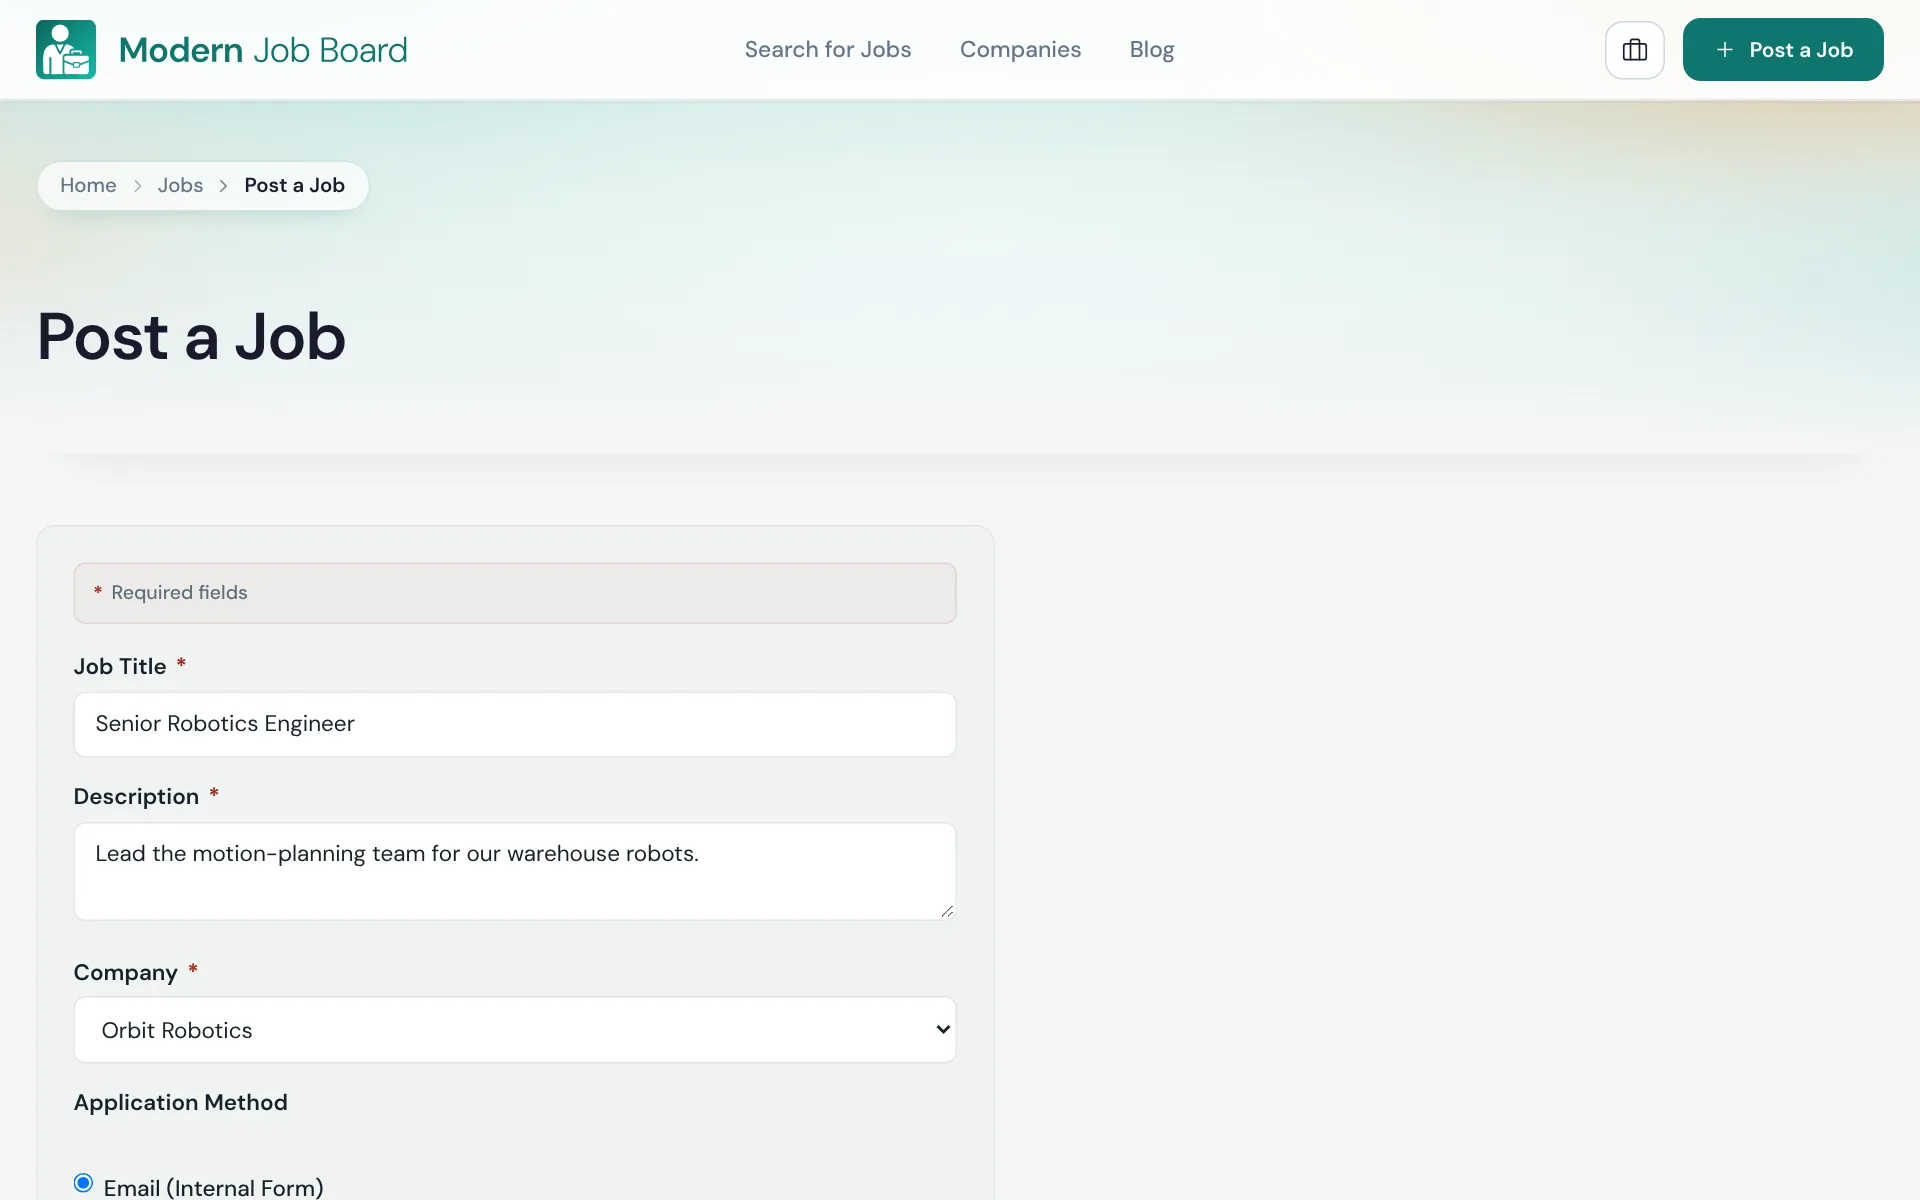
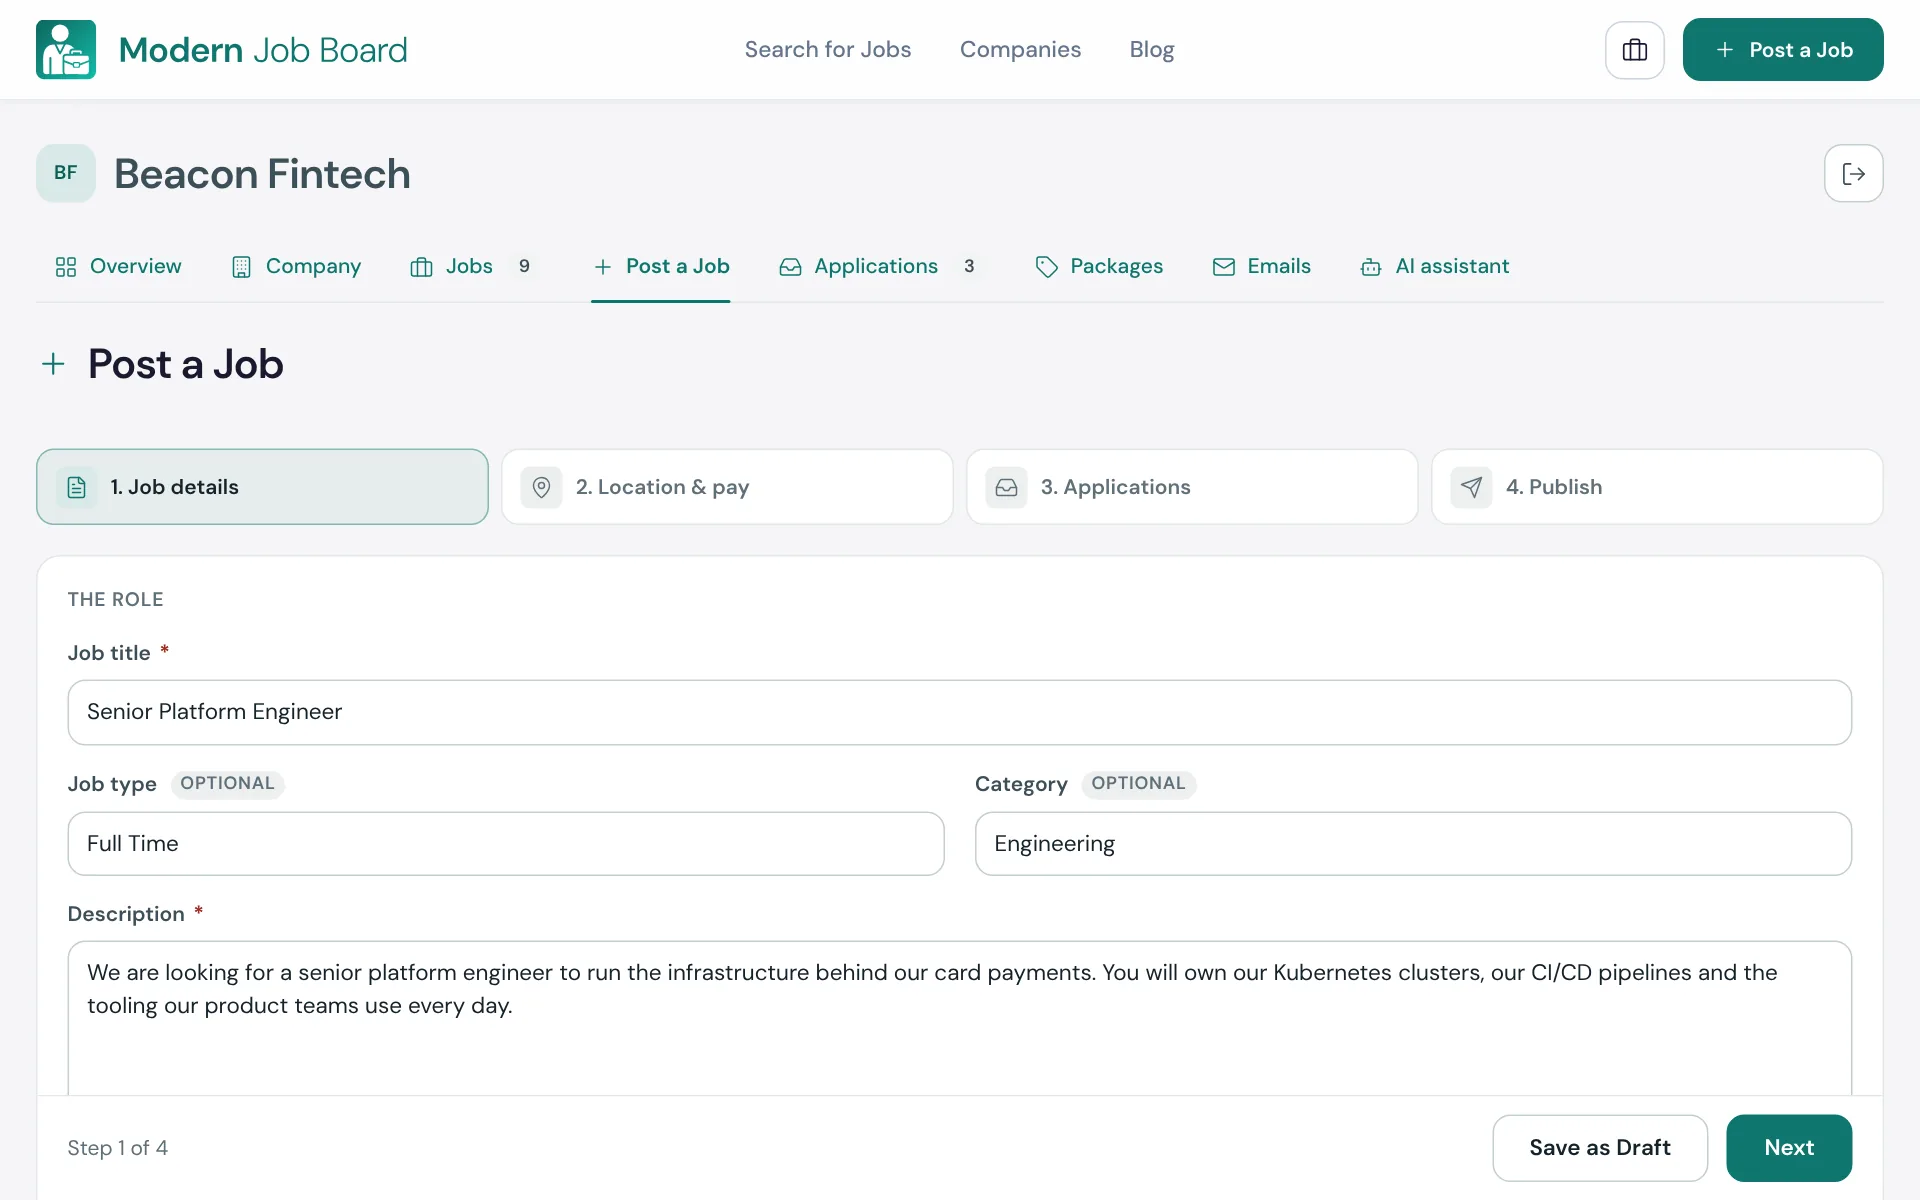
Job submission page, KB and screenshots for the new Post a Job form (0.9.0-beta.106)
Claude-Session: https://claude.ai/code/session_011eNM8LrPwtigcZq5nayHnB

diff --git a/inc/kb/posting-and-managing-jobs.html b/inc/kb/posting-and-managing-jobs.html
@@ -4,7 +4,7 @@
 
 <!-- wp:list {"ordered":true} -->
 <ol class="wp-block-list"><!-- wp:list-item -->
-<li>A recruiter opens the job form (the Job Submission Form block, usually on a <strong>Post a Job</strong> page) and fills in the job: title, description, company, location, type, category and how to apply. Custom fields you have added appear on the form too <strong>(Pro)</strong>.</li>
+<li>A recruiter opens the job form (the Job Submission Form block, usually on a <strong>Post a Job</strong> page). It shows inside their dashboard and has four steps: <strong>Job details</strong> (title, company, type, category and description), <strong>Location &amp; pay</strong>, <strong>Applications</strong> (on your board, an external website or WhatsApp, and who is notified) and <strong>Publish</strong> (when it goes live, an optional Feature upgrade, and a final check of the listing). Custom fields you have added appear on the first step <strong>(Pro)</strong>. Recruiters can save a draft at any step.</li>
 <!-- /wp:list-item --><!-- wp:list-item -->
 <li>They submit it. The job is saved as <strong>Pending</strong> for your review.</li>
 <!-- /wp:list-item --><!-- wp:list-item -->

diff --git a/style.css b/style.css
@@ -4,7 +4,7 @@ Theme URI: https://www.modernjobboard.com
 Author: Martin Orton / Antigravity
 Author URI: https://martinorton.com
 Description: Custom WordPress theme converted from a static HTML template for Modern Job Board. Pre-stable beta release (not 1.0 stable).
-Version: 0.9.0-beta.105
+Version: 0.9.0-beta.106
 License: GNU General Public License v2 or later
 License URI: http://www.gnu.org/licenses/gpl-2.0.html
 Text Domain: modern-job-board-theme

diff --git a/functions.php b/functions.php
@@ -5,7 +5,7 @@
  * @package ModernJobBoardTheme
  */
 
-define( 'MJB_THEME_VERSION', '0.9.0-beta.105' );
+define( 'MJB_THEME_VERSION', '0.9.0-beta.106' );
 
 if ( ! function_exists( 'mjb_theme_setup' ) ) {
 	/**

diff --git a/CHANGELOG.md b/CHANGELOG.md
@@ -2,6 +2,12 @@
 
 Canonical version: `Version` in `style.css` and `MJB_THEME_VERSION` in `functions.php`.
 
+## [0.9.0-beta.106] - 2026-11-26
+
+### Changed
+- **Frontend Job Submission page and docs match the new Post a Job form** (plugin 0.9.0-beta.199). The answer, the steps, the field table and the FAQ now describe the four-step form in the recruiter dashboard and its new fields (type, category, location, workplace, pay, WhatsApp, notify addresses, go-live date, Feature this listing, new-company logo, drafts). New desktop and phone screenshots of the form.
+- KB **Posting and managing jobs**: the job form's four steps.
+
 ## [0.9.0-beta.105] - 2026-11-25
 
 ### Fixed
